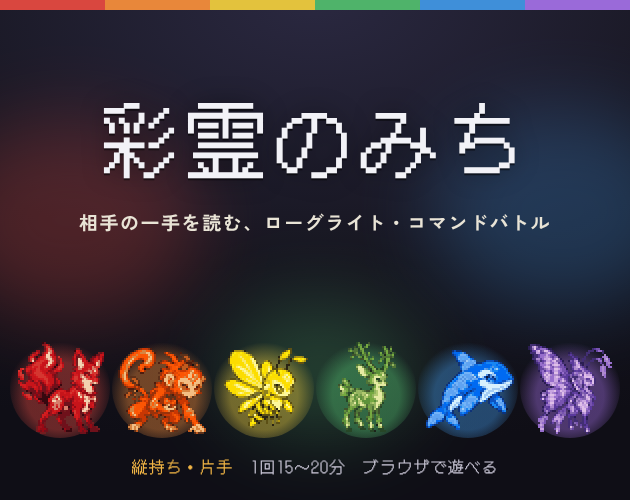
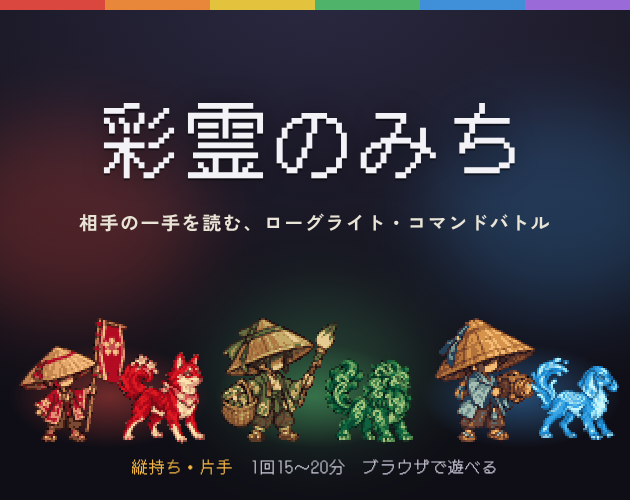
itch.io のページを M8 の内容に合わせて更新する
説明文に、彩り手（18人）と相棒、ライバルのクロを足し、チームの作り方
（相棒＋候補5体から2体）を今の遊び方に直した。スクリーンショットは、
彩り手を選ぶ画面を足した5枚に撮り直し、カバー画像は彩り手と相棒の
3組を並べる形にした。

Claude-Session: https://claude.ai/code/session_01CYAG7V5rLDfW9uiwpNWot8

Changed region(s): [[0.0, 0.63, 0.9952, 0.9]]

diff --git a/docs/itch/cover.html b/docs/itch/cover.html
@@ -27,13 +27,20 @@
     text-shadow: 0 2px 0 #0008, 0 0 24px #0006;
   }
   .title p { margin: 14px 0 0; font-size: 19px; font-weight: 700; letter-spacing: 0.08em; color: #e9e4d6; }
-  .row { position: absolute; left: 0; right: 0; bottom: 62px; display: flex; justify-content: center; gap: 2px; }
+  .row { position: absolute; left: 0; right: 0; bottom: 52px; display: flex; justify-content: center; gap: 6px; }
   /* ドット絵は2倍（整数倍）で、後ろに属性の色をうすく敷く（ゲームのバトル画面と同じ） */
   .sp {
     width: 100px; height: 100px; display: grid; place-items: center; border-radius: 50%;
     background: radial-gradient(circle at 50% 58%, color-mix(in srgb, var(--c) 45%, transparent) 0 44%, transparent 70%);
   }
   .sp img { display: block; image-rendering: pixelated; }
+  /* 彩り手（64×64 を2倍）と、その相棒（48×48 を2倍）を並べる。足もとをそろえ、後ろに属性の色をうすく敷く */
+  .pair {
+    display: flex; align-items: flex-end; width: 200px; height: 136px; padding-bottom: 4px;
+    background: radial-gradient(closest-side at 50% 62%, color-mix(in srgb, var(--c) 48%, transparent) 0%, transparent 100%);
+  }
+  .pair img { display: block; image-rendering: pixelated; }
+  .pair .aibo { margin-left: -24px; margin-bottom: -2px; }
   .tag { position: absolute; left: 0; right: 0; bottom: 22px; text-align: center; font-family: 'DotGothic16', sans-serif; font-size: 16px; font-weight: 400; color: #c9c6d6; letter-spacing: 0.06em; }
   .tag b { color: #f0b445; font-weight: 400; }
 </style>
@@ -49,12 +56,9 @@
     <p>相手の一手を読む、ローグライト・コマンドバトル</p>
   </div>
   <div class="row">
-    <div class="sp" style="--c: #d9473f"><img src="../../src/assets/sprites/crimson-trial.png" width="96" height="96" alt=""></div>
-    <div class="sp" style="--c: #e8873a"><img src="../../src/assets/sprites/orange-raider.png" width="96" height="96" alt=""></div>
-    <div class="sp" style="--c: #e3c23d"><img src="../../src/assets/sprites/yellow-trickster.png" width="96" height="96" alt=""></div>
-    <div class="sp" style="--c: #4fb36a"><img src="../../src/assets/sprites/green-charger.png" width="96" height="96" alt=""></div>
-    <div class="sp" style="--c: #3f8fd9"><img src="../../src/assets/sprites/blue-skirmisher.png" width="96" height="96" alt=""></div>
-    <div class="sp" style="--c: #9a6ad9"><img src="../../src/assets/sprites/violet-trial.png" width="96" height="96" alt=""></div>
+    <div class="pair" style="--c: #d9473f"><img class="hito" src="../../src/assets/irodorite/hina.png" width="128" height="128" alt=""><img class="aibo" src="../../src/assets/sprites/hina-partner.png" width="96" height="96" alt=""></div>
+    <div class="pair" style="--c: #4fb36a"><img class="hito" src="../../src/assets/irodorite/yuhi.png" width="128" height="128" alt=""><img class="aibo" src="../../src/assets/sprites/yuhi-partner.png" width="96" height="96" alt=""></div>
+    <div class="pair" style="--c: #3f8fd9"><img class="hito" src="../../src/assets/irodorite/rin.png" width="128" height="128" alt=""><img class="aibo" src="../../src/assets/sprites/rin-partner.png" width="96" height="96" alt=""></div>
   </div>
   <div class="tag"><b>縦持ち・片手</b>　1回15〜20分　ブラウザで遊べる</div>
 </div>

diff --git a/docs/itch.md b/docs/itch.md
@@ -10,7 +10,7 @@ itch.io の画面の項目名は、2026年10月時点の理解で書いていま
 | --- | --- | --- |
 | ゲーム本体（zip） | https://q68-g41.github.io/myGame/sairei-itch.zip | Uploads |
 | カバー画像（630×500） | `docs/itch/cover.png` | Cover image |
-| スクリーンショット4枚（780×1688） | `docs/itch/screenshot-1-draft.png` ほか | Screenshots |
+| スクリーンショット5枚（780×1688） | `docs/itch/screenshot-1-irodorite.png` ほか | Screenshots |
 | ページの文面 | このファイルの「ページの文面」 | Short description / Description |
 
 - zip は main にマージするたびに作り直される（GitHub Actions の「Deploy to GitHub Pages」が終わったあと）
@@ -48,9 +48,9 @@ itch.io の画面の項目名は、2026年10月時点の理解で書いていま
 | Description | 下の「説明文」 |
 | Genre | Strategy |
 | Tags | roguelite, turn-based-combat, pixel-art, japanese, mobile, singleplayer |
-| AI generation disclosure | 使った、と申告する。絵（キャラ・マップのアイコン）は画像生成AIで描き、コードは AI（Claude Code）と一緒に書いた。効果音と BGM はコードでその場で作る音で、生成AIの音は使っていない |
+| AI generation disclosure | 使った、と申告する。絵（キャラ・彩り手・マップのアイコン）は画像生成AIで描き、コードは AI（Claude Code）と一緒に書いた。効果音と BGM はコードでその場で作る音で、生成AIの音は使っていない |
 | Cover image | `docs/itch/cover.png` |
-| Screenshots | `docs/itch/screenshot-1-draft.png` から `screenshot-4-reward.png` の4枚 |
+| Screenshots | `docs/itch/screenshot-1-irodorite.png` から `screenshot-5-reward.png` の5枚（彩り手を選ぶ・チーム選択・マップ・バトル・報酬） |
 | Comments | 有効にする（一般公開のあとの感想の受け皿。仕様書 7） |
 
 ### 埋め込みの設定（Embed options）
@@ -80,15 +80,18 @@ itch.io の画面の項目名は、2026年10月時点の理解で書いていま
 スマホを縦に持って、片手で遊べます。1回のプレイは15〜20分ほどです。
 
 ■ 遊び方
-・候補5体から3体を選んでチームを作り、分岐マップを下から上へ進みます
+・まず、彩霊と旅をする「彩り手（いろどりて）」を18人から1人選びます。彩り手には、専用の相棒の彩霊と、旅のあいだずっと効く特性があります
+・相棒に、候補5体から選んだ2体を加えた3体でチームを作り、分岐マップを下から上へ進みます
 ・バトルでは、技を選ぶか、控えと交代します。相手の次の一手を読み、属性の相性と交代で上を取りましょう
 ・勝つたびに「技・能力強化・お守り」から1つを選んで、チームを育てます
+・2つめのエリアのボスの手前では、ライバルの彩り手「クロ」が待ちかまえています
 ・3つのエリアの最後に待つ「くすみ」のボスを倒せばクリアです
 
 ■ 中身
-・彩霊 12体（紅・橙・黄・翠・蒼・紫の6属性）
+・彩り手 18人と、それぞれの相棒の彩霊 18体
+・仲間にできる彩霊 12体（紅・橙・黄・翠・蒼・紫の6属性）
 ・技 36個、お守り 20個
-・エリア 3つ、ボス 3体
+・エリア 3つ、ボス 3体、ライバル 1人
 ・相手（CPU）は、先のエリアほど賢くなります
 
 ■ 遊ぶときの注意
@@ -101,14 +104,14 @@ itch.io の画面の項目名は、2026年10月時点の理解で書いていま
 どこまで進めたか、1回にかかった時間、迷ったところ、難しすぎる・簡単すぎると感じたところを、コメント欄に書いてもらえるとうれしいです。
 
 ■ 制作について
-Claude Code（AI）と一緒に作っています。キャラとマップのアイコンの絵は、画像生成AI（GPT Image 2.5）で描いたものを、ドット絵に整えて使っています。効果音と BGM は、プログラムでその場で作っています。
+Claude Code（AI）と一緒に作っています。キャラ・彩り手・マップのアイコンの絵は、画像生成AI（GPT Image 2.5）で描いたものを、ドット絵に整えて使っています。効果音と BGM は、プログラムでその場で作っています。
 フォント：DotGothic16、Zen Kaku Gothic New（SIL Open Font License）
 ```
 
 説明文の最後に、日本語が読めない人向けの一文を足す。
 
 ```
-Japanese only. A portrait, one-handed roguelite command battle game: read your opponent's next move and win with type matchups and switching. Made with Claude Code; the character and icon art was generated with an AI image model (GPT Image 2.5) and converted to pixel art. Fonts: DotGothic16 and Zen Kaku Gothic New (SIL Open Font License).
+Japanese only. A portrait, one-handed roguelite command battle game: pick one of 18 travelers and their partner spirit, then read your opponent's next move and win with type matchups and switching. Made with Claude Code; the character and icon art was generated with an AI image model (GPT Image 2.5) and converted to pixel art. Fonts: DotGothic16 and Zen Kaku Gothic New (SIL Open Font License).
 ```
 
 ## アップデートのしかた
@@ -124,4 +127,5 @@ Japanese only. A portrait, one-handed roguelite command battle game: read your o
 ## 素材の作り直し
 
 - **カバー画像**：`docs/itch/cover.html` をブラウザで開き、`.cover` の部分（630×500）を画像にする（Chrome なら開発者ツールで要素を選び「ノードのスクリーンショットをキャプチャ」）。タイトルが決まったら `h1` を書き換えて作り直す
-- **スクリーンショット**：ゲームを 390×844・2倍（デバイスピクセル比 2）で開き、チーム選択・マップ・バトル・報酬の画面を撮る
+- **スクリーンショット**：ゲームを 390×844・2倍（デバイスピクセル比 2）で開き、彩り手を選ぶ・チーム選択・マップ・バトル（始まりの口ぐせが出ているところ）・報酬の画面を撮る
+- カバー画像の絵は、彩り手と相棒の3組（ヒナとサクラシバ、ユヒとカラクサジシ、リンとミナモイヌ）。どれも2倍（整数倍）で、足もとをそろえて並べる
